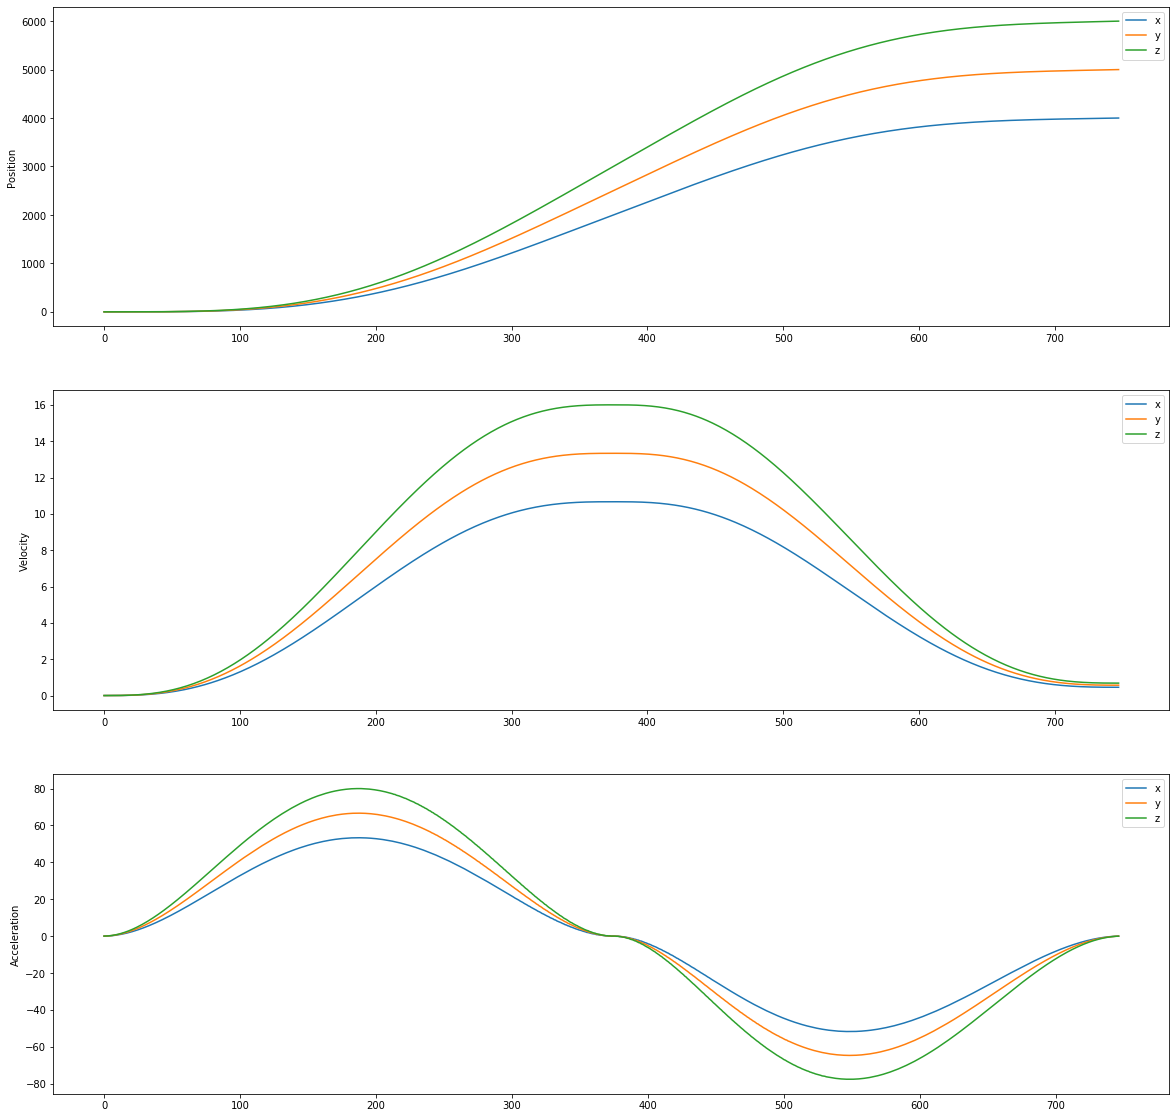
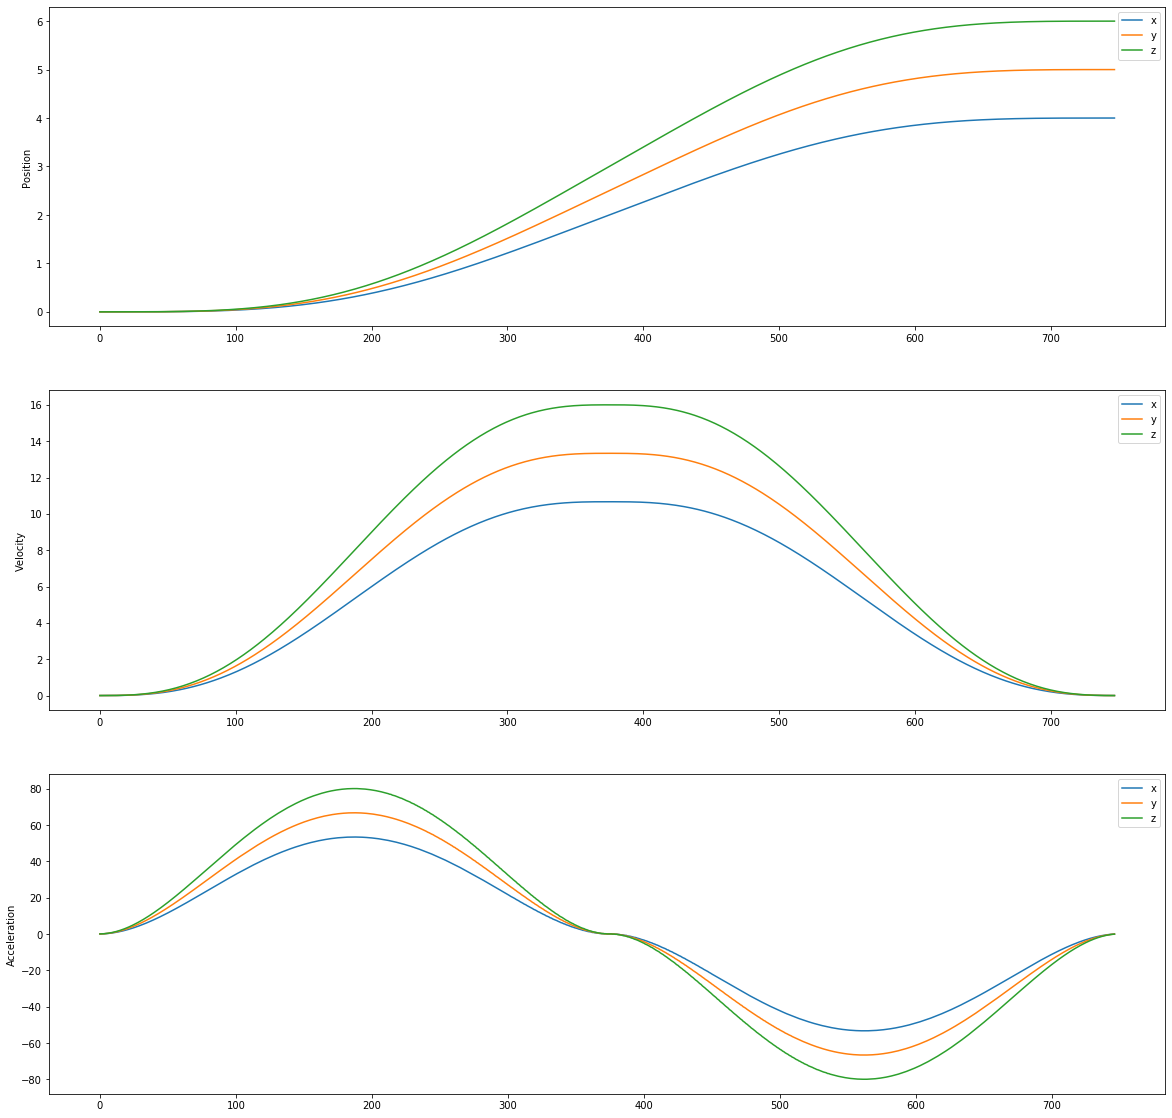
Implement user defined exit velocity.

diff --git a/Motion/MotionPlanner.hpp b/Motion/MotionPlanner.hpp
@@ -46,10 +46,16 @@ public:
 
     virtual ~MotionPlanner(){};
 
-    void do_command(const Point<T, N>& p){
+    void plan(const Point<T, N>& p){
         // First append required to fill buffer.
         append_buffer(p);
         plan_motion();
+    }
+
+    void plan(const Point<T, N>& p, T& v_final){
+        // First append required to fill buffer.
+        append_buffer(p);
+        plan_motion(v_final);
     }
 
 private:
@@ -85,8 +91,51 @@ private:
         }
 
         T ratio {this->angle_ratio(mp_buffer[0], mp_buffer[1], mp_buffer[2])};
-            
+
         T v_exit {mp_buffer[1].vel * ratio};           // Velocity at end of trajectory (or final velocity).
+        T v_target {mp_buffer[1].vel};
+        T a_target {mp_buffer[1].acc};
+        
+        T v_delta {v_exit - v_enter}; 
+        T v_delta_target {v_target - v_enter};      // Delta velocity for acceleration phase.
+        T v_delta_exit {v_exit - v_target};         // Delta velocity for deceleration phase.
+        
+        // Calculate the time and distance required to reach target velocities.
+        T t_acc {this->calc_accel_time (v_delta_target, a_target)};
+        T p_acc {this->calc_accel_position (v_enter, v_target, t_acc)};
+
+        T t_dec {this->calc_accel_time (v_delta_exit, a_target)};
+        T p_dec {abs(this->calc_accel_position (v_target, v_exit, t_dec))};
+
+        // Determine if the first and second acceleration event in the motion is bigger than the total distance.
+        // If its true, coasting motion is calculated, if false, transition motion id calculated.
+        if ((carthesian_delta < 1) or ((p_acc + p_dec) > carthesian_delta))
+            transition(carthesian_delta, v_enter, v_target, v_delta, a_target, delta_unit, v_exit);
+        
+        else 
+            motion(v_enter, v_target, v_exit, carthesian_delta, p_acc, p_dec, t_acc, t_dec, delta_unit);
+
+        v_enter = v_exit;
+    }  
+
+    void plan_motion(T& v_final){
+        // Calculate delta's of axis.
+        auto delta_unit {this->unit_vector(mp_buffer[1] - mp_buffer[0])};
+        auto carthesian_delta {this->norm(mp_buffer[1] - mp_buffer[0])};
+
+        // Check for second motion entry.
+        if (carthesian_delta == 0.0) {
+            append_buffer(mp_buffer[2]);
+            delta_unit = this->unit_vector(mp_buffer[1] - mp_buffer[0]);
+            carthesian_delta = this->norm(mp_buffer[1] - mp_buffer[0]);
+            // If delta is 0, nothing to calculate.
+            if (carthesian_delta == 0.0)
+                return;
+        }
+
+        T ratio {this->angle_ratio(mp_buffer[0], mp_buffer[1], mp_buffer[2])};
+
+        T v_exit {v_final};
         T v_target {mp_buffer[1].vel};
         T a_target {mp_buffer[1].acc};
         

diff --git a/example/main.cpp b/example/main.cpp
@@ -14,7 +14,9 @@ int main () {
     std::array<double, 3> p {4, 5, 6};
 
     // Give desired position with velocity target and max acceleration.
-    motion.set_position(p, 100, 500);
+    // The 4yh parameter is user specified exit velocity (set 0 when motion should stop)
+    // or do not enter to let the planner calculate exit velocity.
+    motion.set_position(p, 100, 500, 0);
 
     for (int i = 0; i < 748; i++) {
         // Get velocity setpoints of current time sample.

diff --git a/Motion/Motion.hpp b/Motion/Motion.hpp
@@ -42,7 +42,12 @@ public:
 
     inline void set_position(std::array<T, N>& pos, T vel, T acc) {
         Point<T, N> p(pos, vel, acc);
-        this->do_command(p);
+        this->plan(p);
+    }
+
+    inline void set_position(std::array<T, N>& pos, T vel, T acc, T v_final) {
+        Point<T, N> p(pos, vel, acc);
+        this->plan(p, v_final);
     }
 
     virtual inline void increment_motion_sample() {
